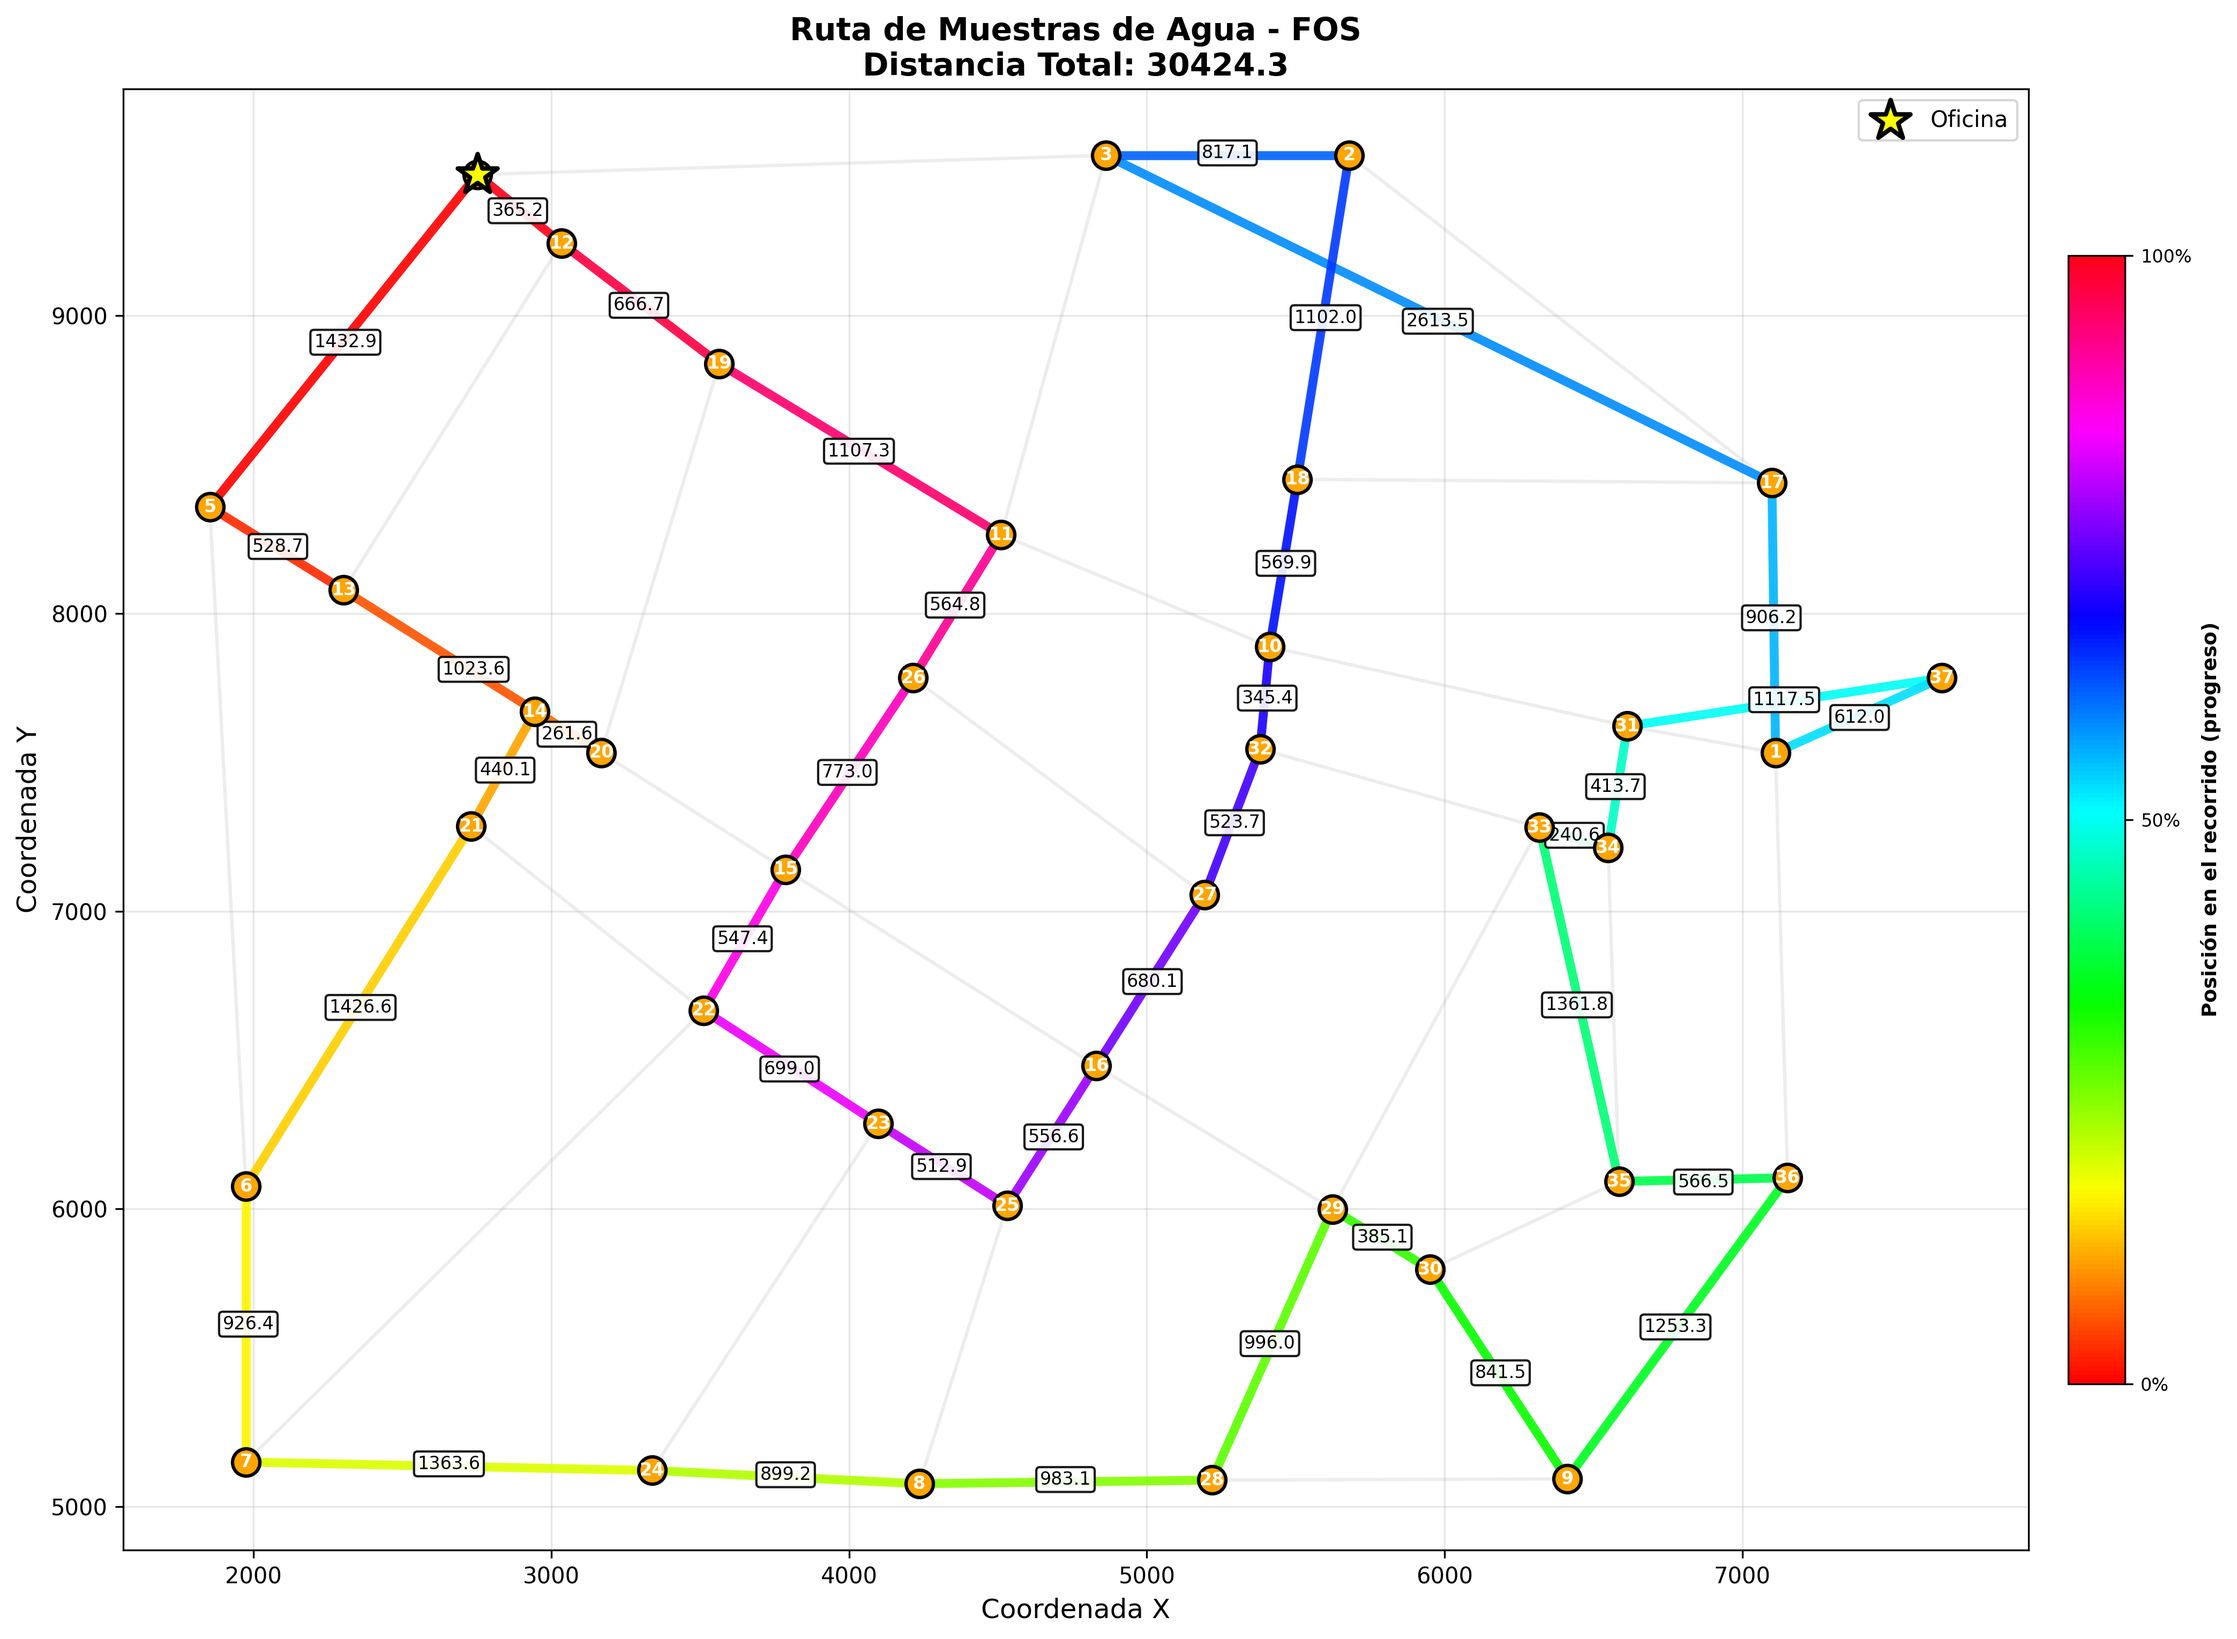
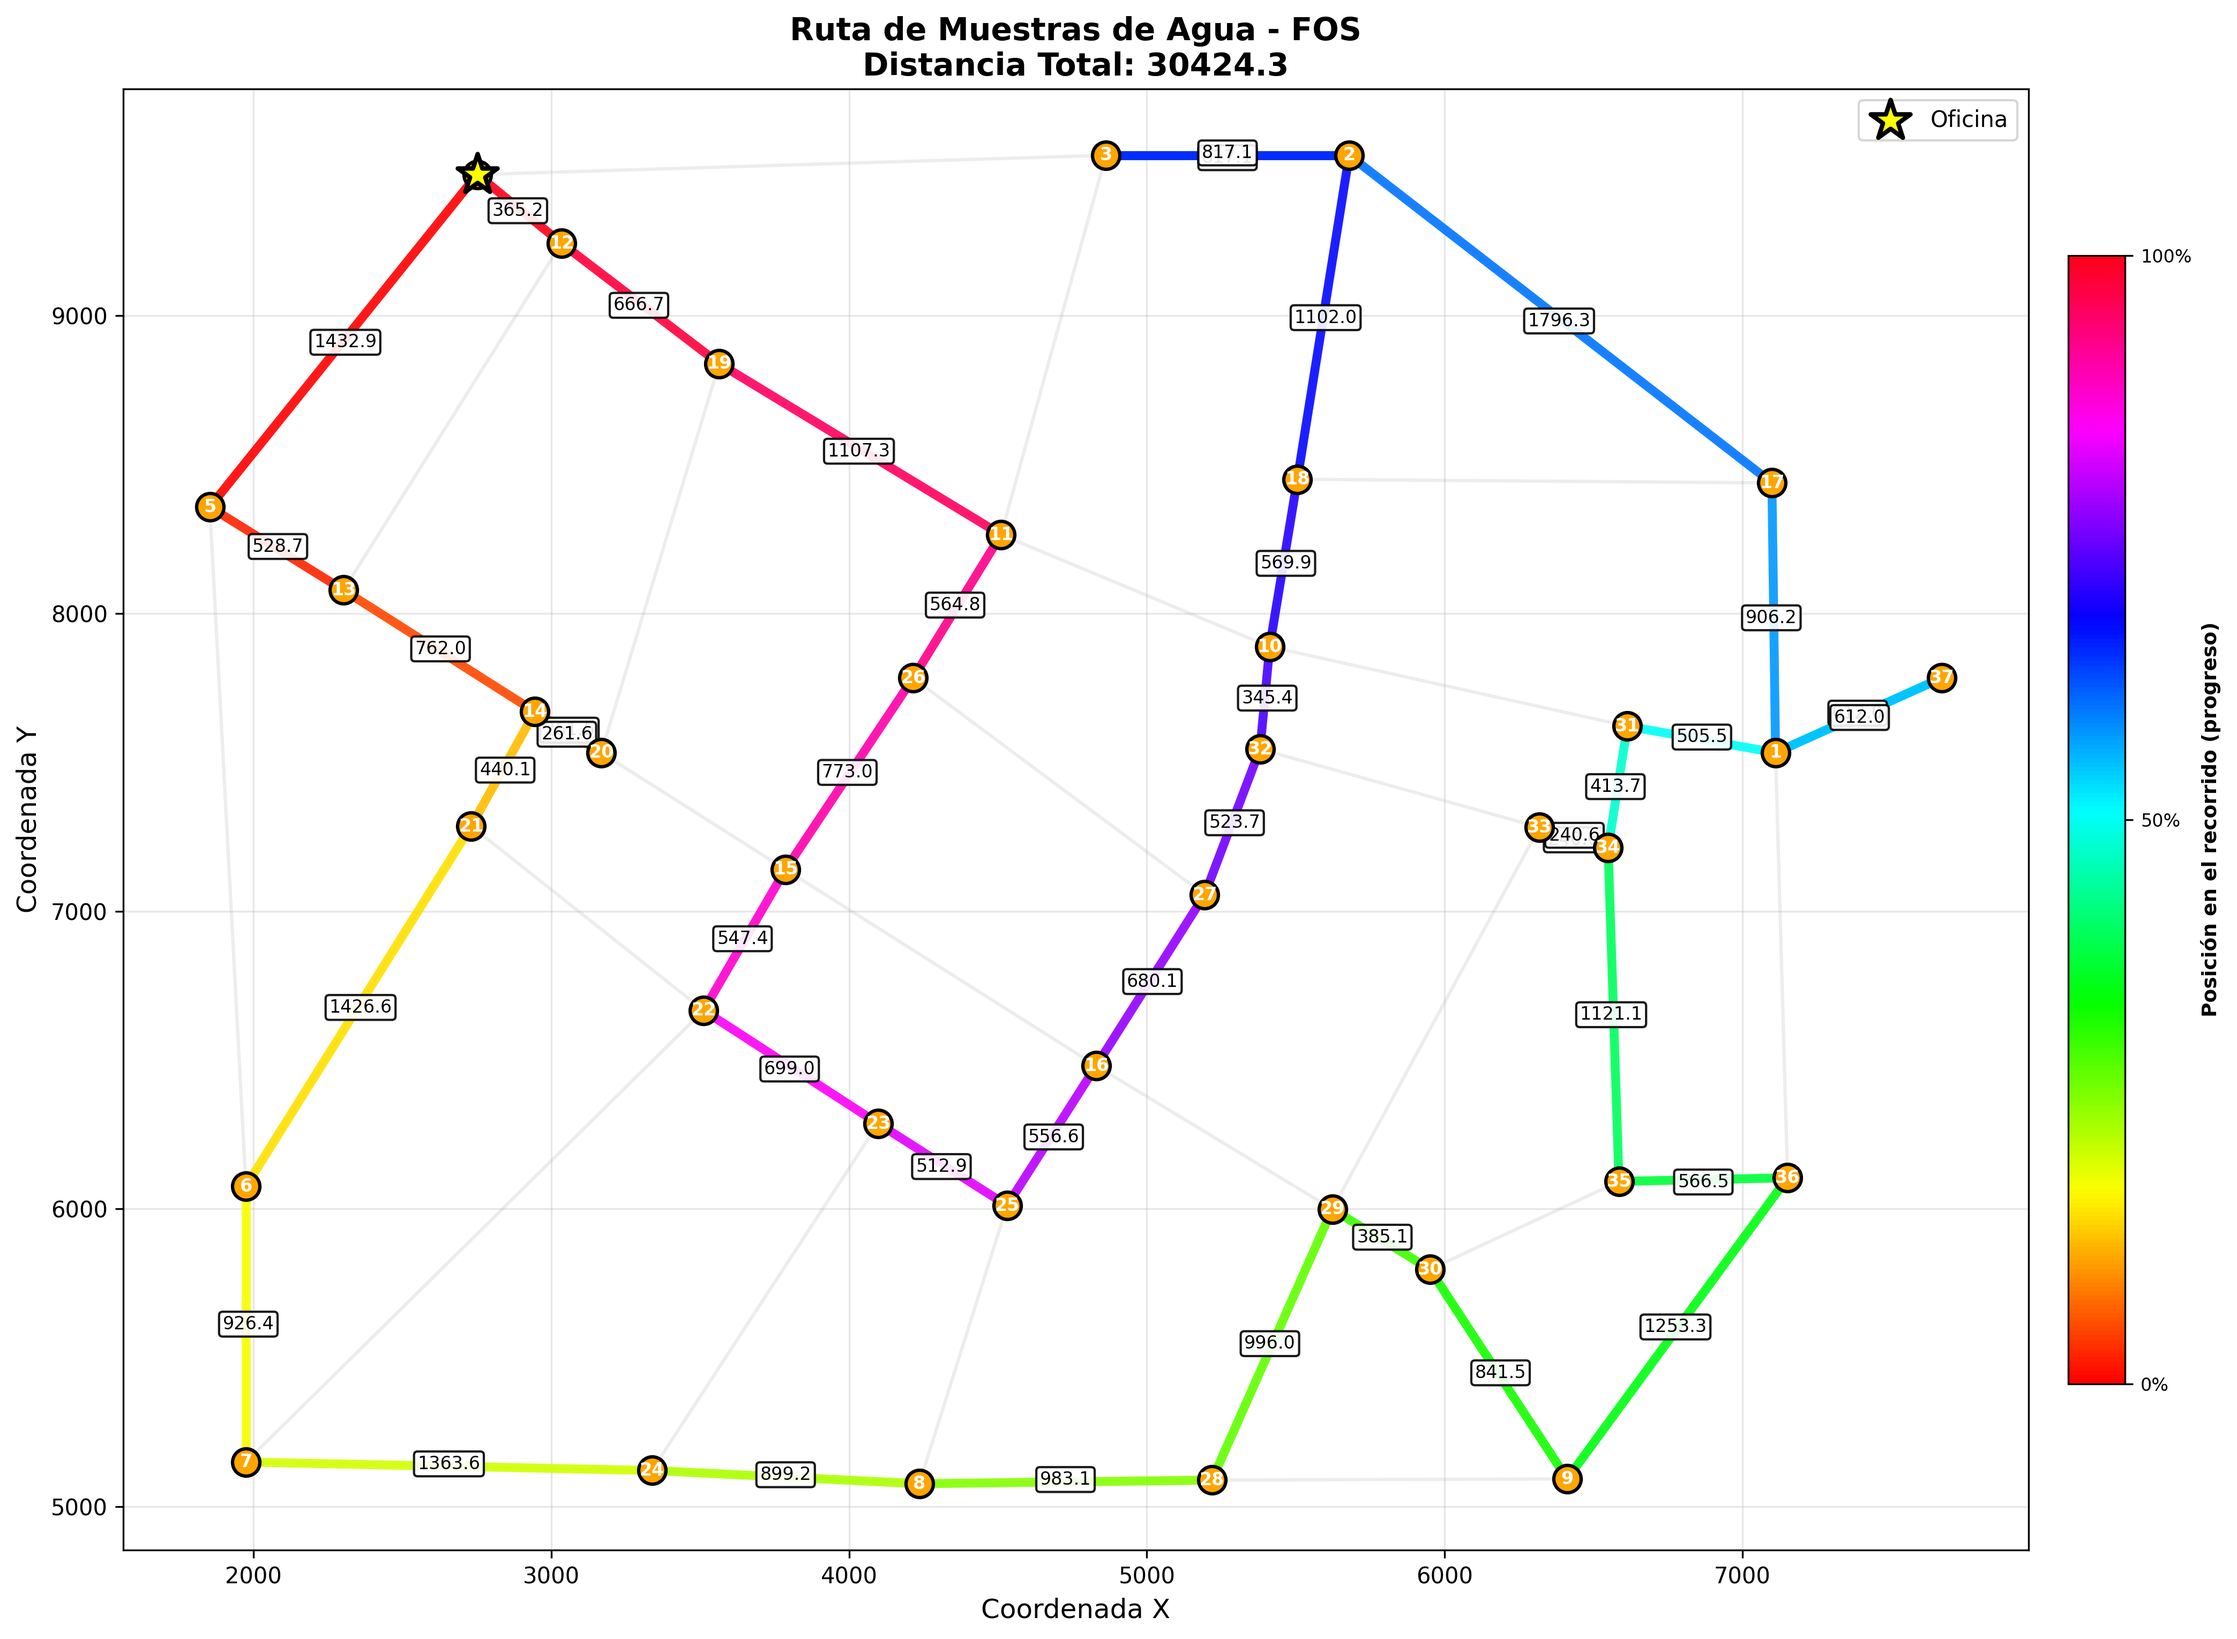
fix de ruteo para que respete los caminos fisicos

diff --git a/Distribucion_del_Agua.py b/Distribucion_del_Agua.py
@@ -1094,14 +1094,37 @@ def generar_ruta_muestras(instancia: Instancia) -> Dict:
     nodos = list(instancia.nodos.keys())
     M = matriz_distancias(instancia, nodos)
     tour = nearest_neighbor(M, instancia.office_id)
+    grafo = construir_grafo(instancia)
     tour = two_opt(tour, M)
+
     edges = []
     total = 0.0
     for i in range(len(tour) - 1):
         u, v = tour[i], tour[i + 1]
-        d = M[u][v]
-        edges.append((u, v, d))
-        total += d
+        path, dist = camino_en_red(instancia, grafo, u, v)
+        if not path:
+            # si no existe camino, intentar sumar la distancia métrica como fallback
+            d = M.get(u, {}).get(v, float('inf'))
+            if d < float('inf'):
+                edges.append((u, v, d))
+                total += d
+            continue
+
+        # path es lista de nodos [u, ..., v]; convertir en segmentos adyacentes
+        for j in range(len(path) - 1):
+            a, b = path[j], path[j + 1]
+            ar = next((ar for ar in instancia.aristas
+                       if (ar.nodo1 == a and ar.nodo2 == b) or
+                          (ar.nodo1 == b and ar.nodo2 == a)), None)
+            if ar is None:
+                # no debería ocurrir, pero en caso de inconsistencia usar euclidiana
+                segd = distancia_euclidiana(instancia.nodos[a].x, instancia.nodos[a].y,
+                                            instancia.nodos[b].x, instancia.nodos[b].y)
+            else:
+                segd = ar.longitud if ar.longitud is not None else calcular_longitud_arista(instancia, ar)
+            edges.append((a, b, segd))
+            total += segd
+
     return {'tour': tour, 'edges': edges, 'total': total}
 
 def graficar_ruta_muestras(instancia: Instancia, ruta_salida: str = None,
